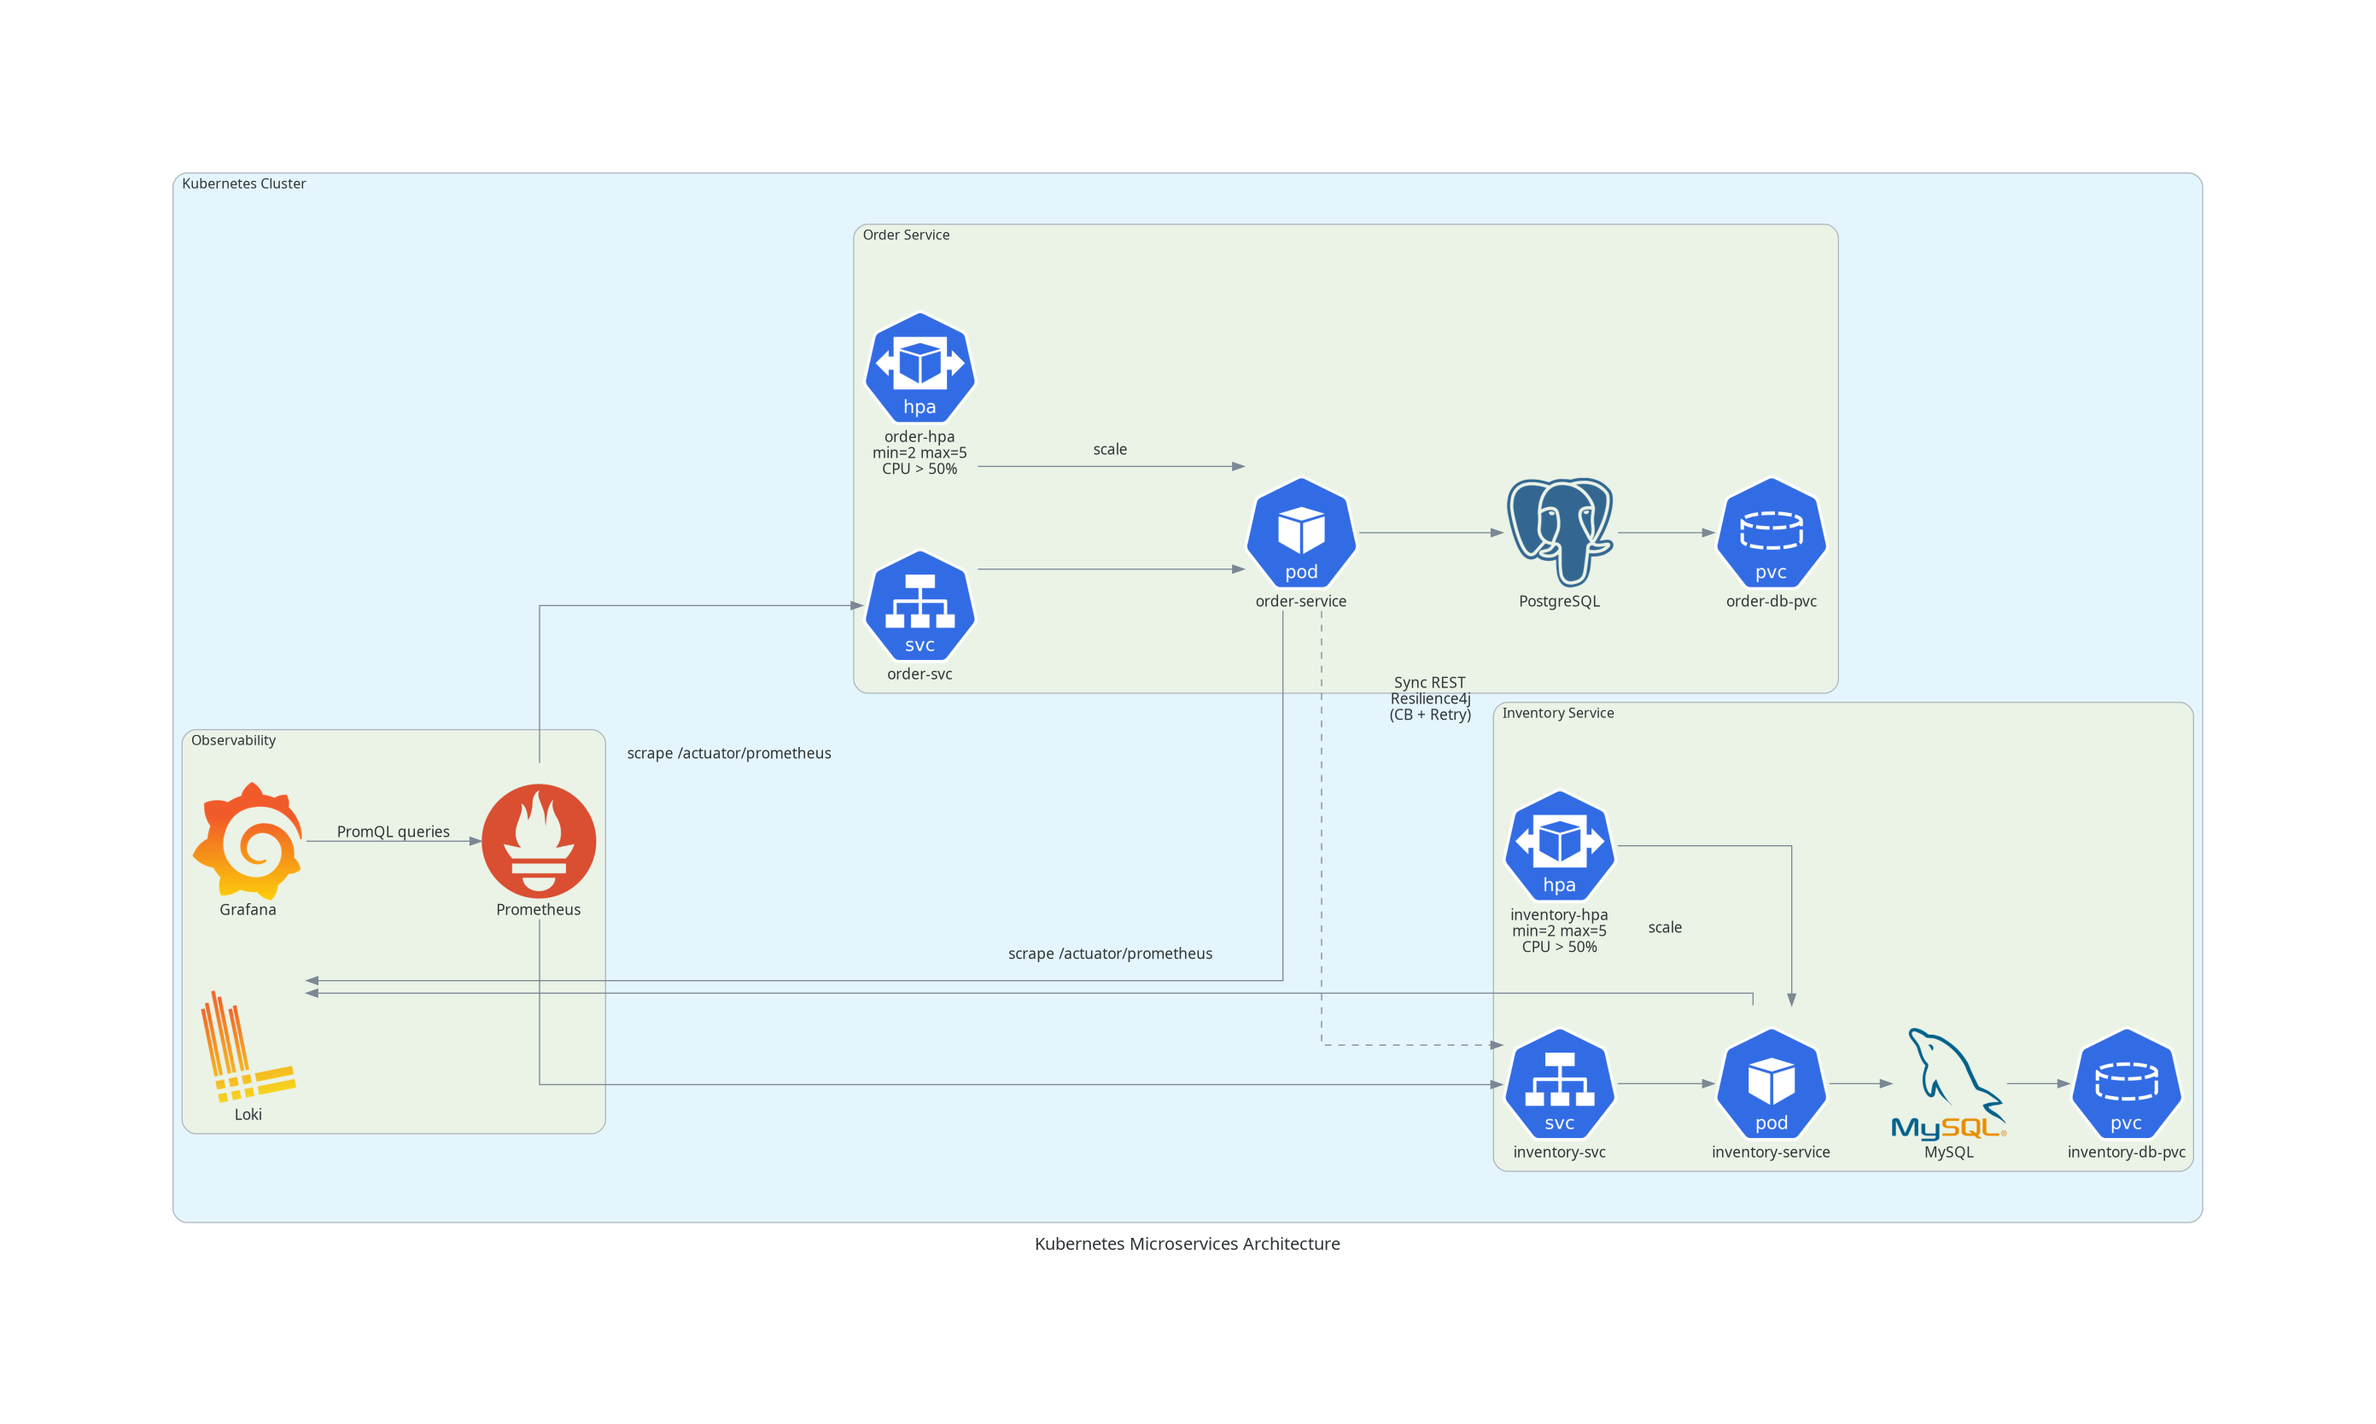
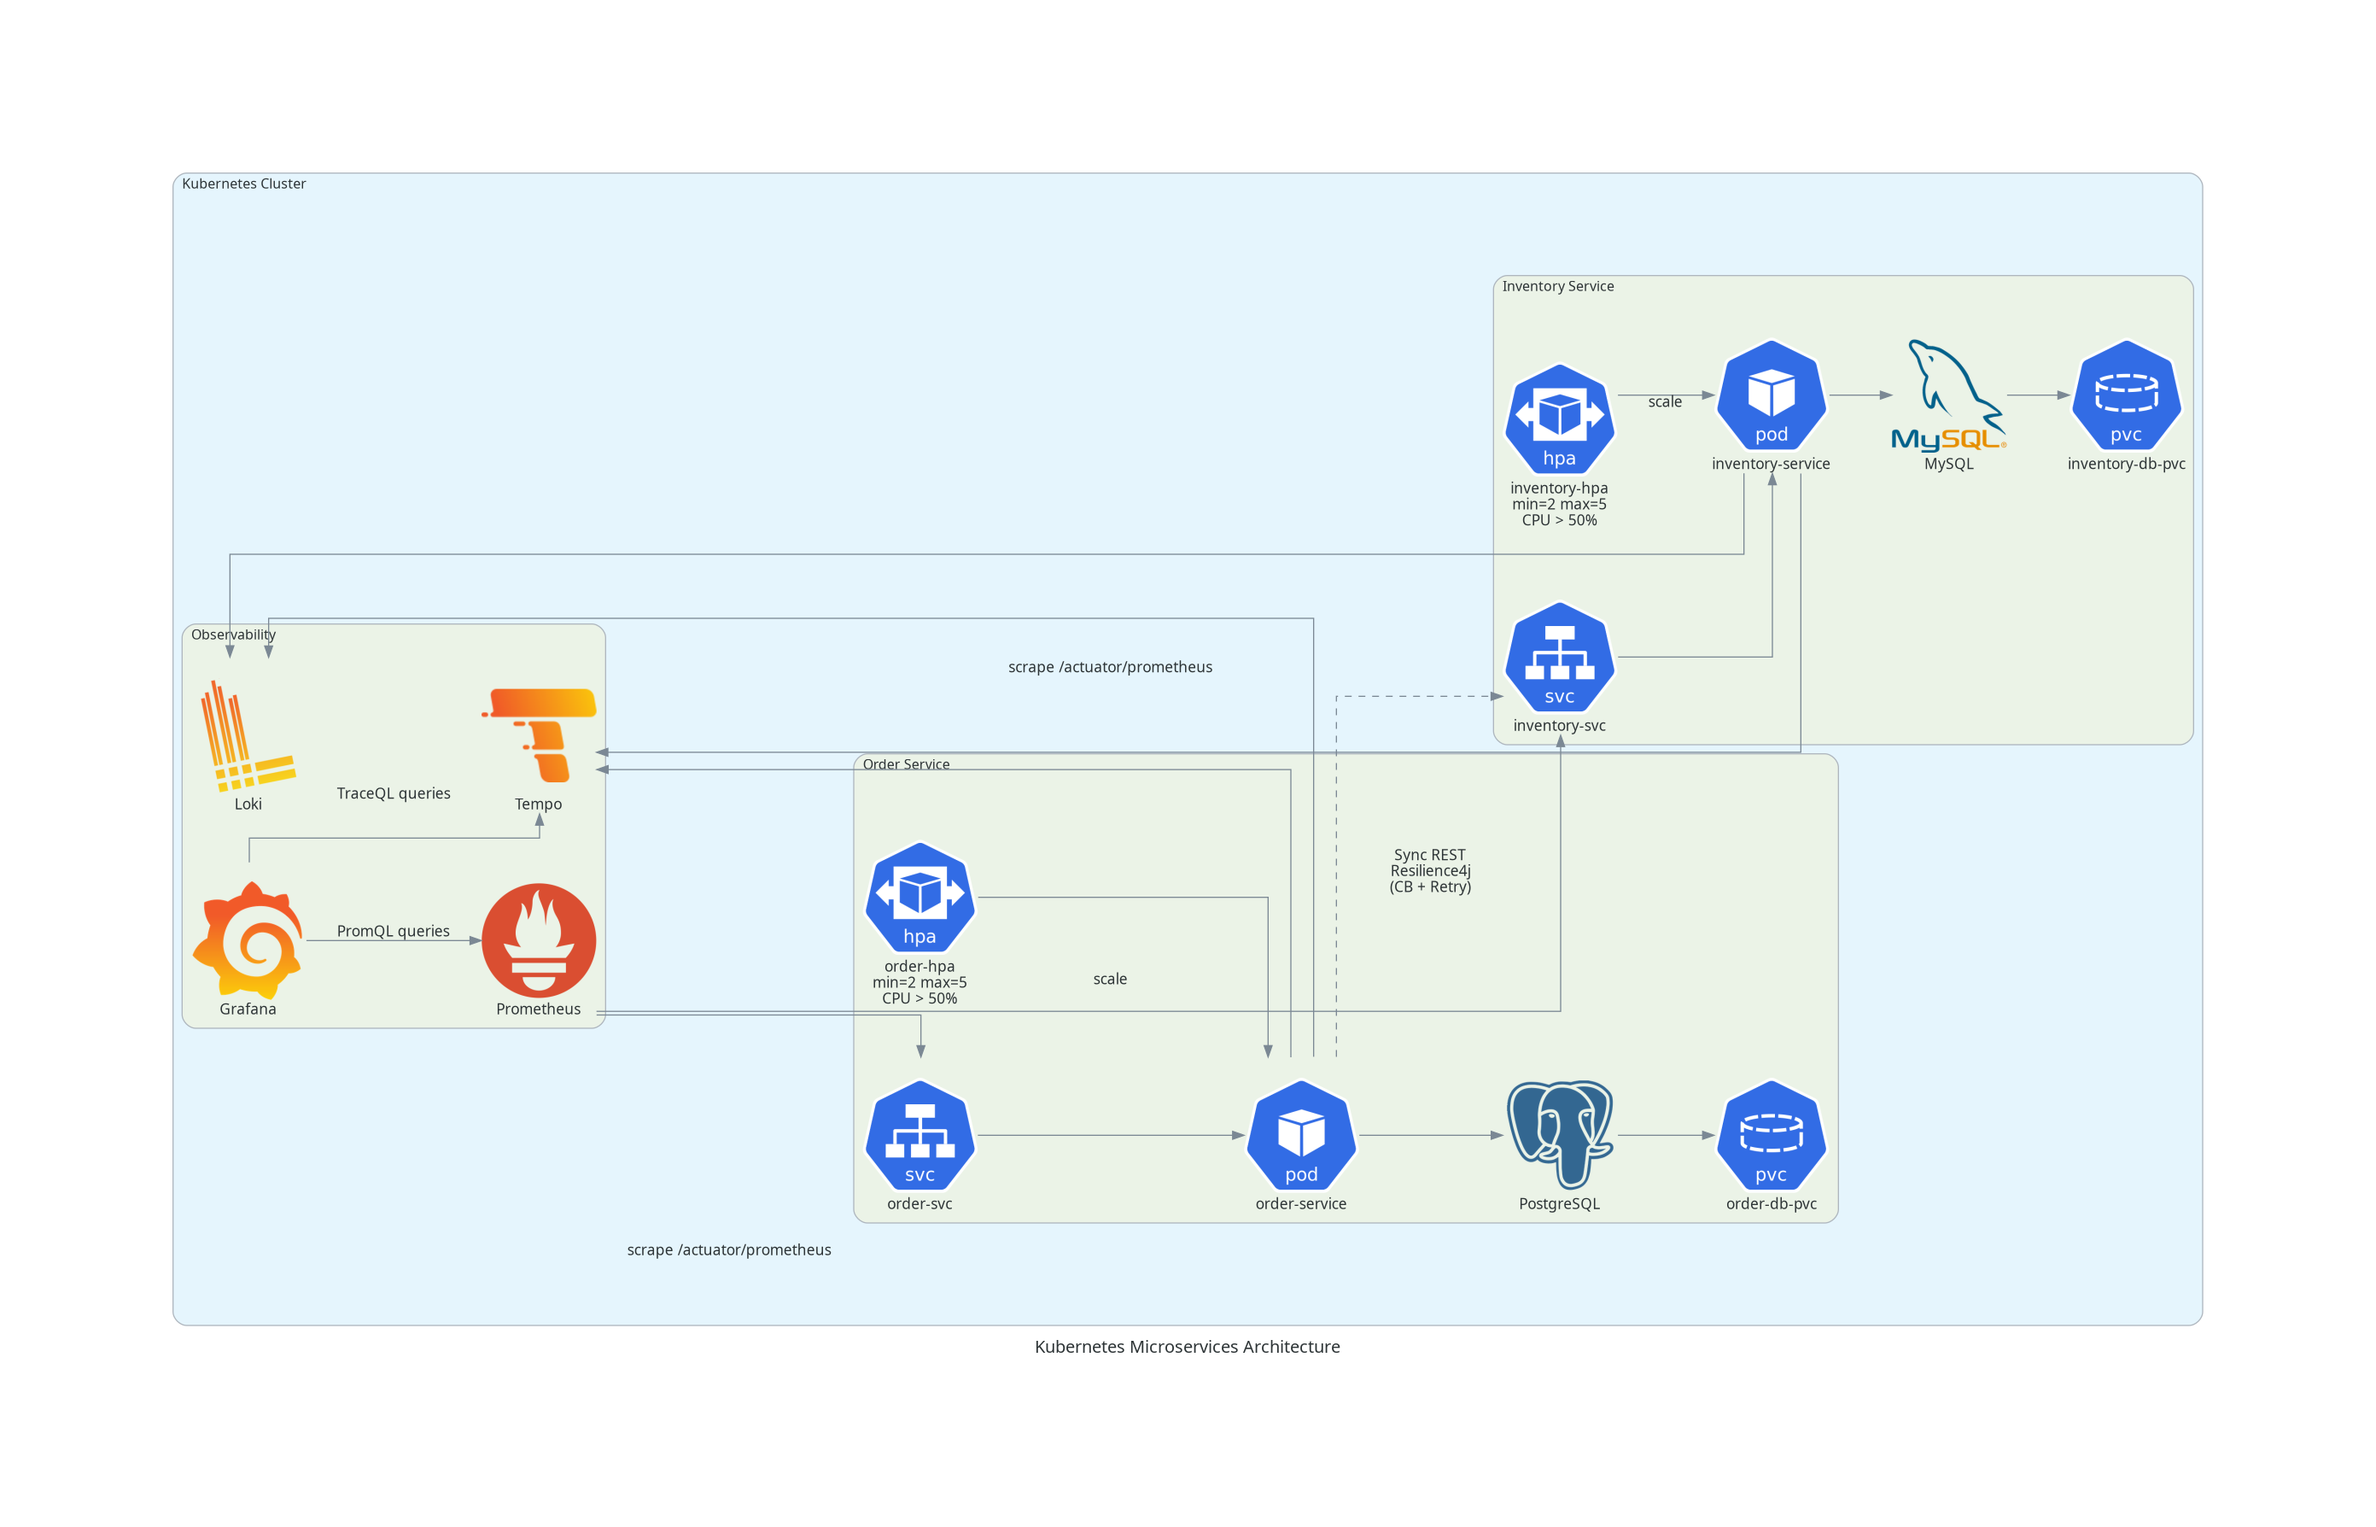
feat: add tempo for tracing support

diff --git a/arch_diagram_mingrammer.py b/arch_diagram_mingrammer.py
@@ -1,0 +1,63 @@
+from diagrams import Diagram, Cluster, Edge
+from diagrams.k8s.compute import Pod
+from diagrams.k8s.network import Service
+from diagrams.k8s.storage import PVC
+from diagrams.k8s.clusterconfig import HPA
+from diagrams.onprem.database import PostgreSQL, MySQL
+from diagrams.onprem.monitoring import Prometheus, Grafana
+from diagrams.onprem.tracing import Tempo
+from diagrams.onprem.logging import Loki
+
+with Diagram(
+    "Kubernetes Microservices Architecture",
+    show=False,
+    outformat="png"
+):
+
+    with Cluster("Kubernetes Cluster"):
+
+        with Cluster("Observability"):
+            prometheus = Prometheus("Prometheus")
+            grafana = Grafana("Grafana")
+            loki = Loki("Loki")
+            tempo = Tempo("Tempo")
+
+        with Cluster("Order Service"):
+            order_hpa = HPA("order-hpa\nmin=2 max=5\nCPU > 50%")
+            order_pod = Pod("order-service")
+            order_svc = Service("order-svc")
+            order_db = PostgreSQL("PostgreSQL")
+            order_pvc = PVC("order-db-pvc")
+
+            order_hpa >> Edge(label="scale") >> order_pod
+            order_svc >> order_pod
+            order_pod >> order_db
+            order_db >> order_pvc
+
+        with Cluster("Inventory Service"):
+            inventory_hpa = HPA("inventory-hpa\nmin=2 max=5\nCPU > 50%")
+            inventory_pod = Pod("inventory-service")
+            inventory_svc = Service("inventory-svc")
+            inventory_db = MySQL("MySQL")
+            inventory_pvc = PVC("inventory-db-pvc")
+
+            inventory_hpa >> Edge(label="scale") >> inventory_pod
+            inventory_svc >> inventory_pod
+            inventory_pod >> inventory_db
+            inventory_db >> inventory_pvc
+
+        order_pod >> Edge(
+            label="Sync REST\nResilience4j\n(CB + Retry)",
+            style="dashed"
+        ) >> inventory_svc
+
+        prometheus >> Edge(label="scrape /actuator/prometheus") >> order_svc
+        prometheus >> Edge(label="scrape /actuator/prometheus") >> inventory_svc
+        grafana >> Edge(label="PromQL queries") >> prometheus
+        grafana >> Edge(label="TraceQL queries") >> tempo
+
+        loki << order_pod
+        loki << inventory_pod
+
+        tempo << order_pod
+        tempo << inventory_pod
